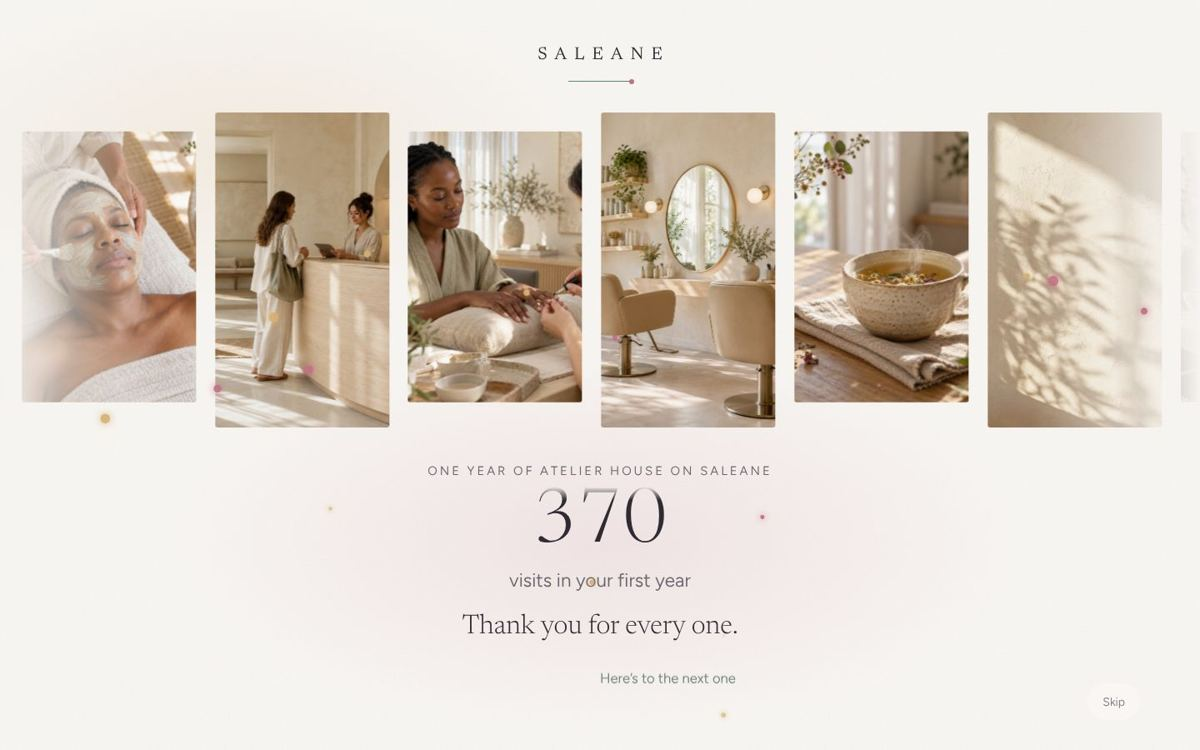
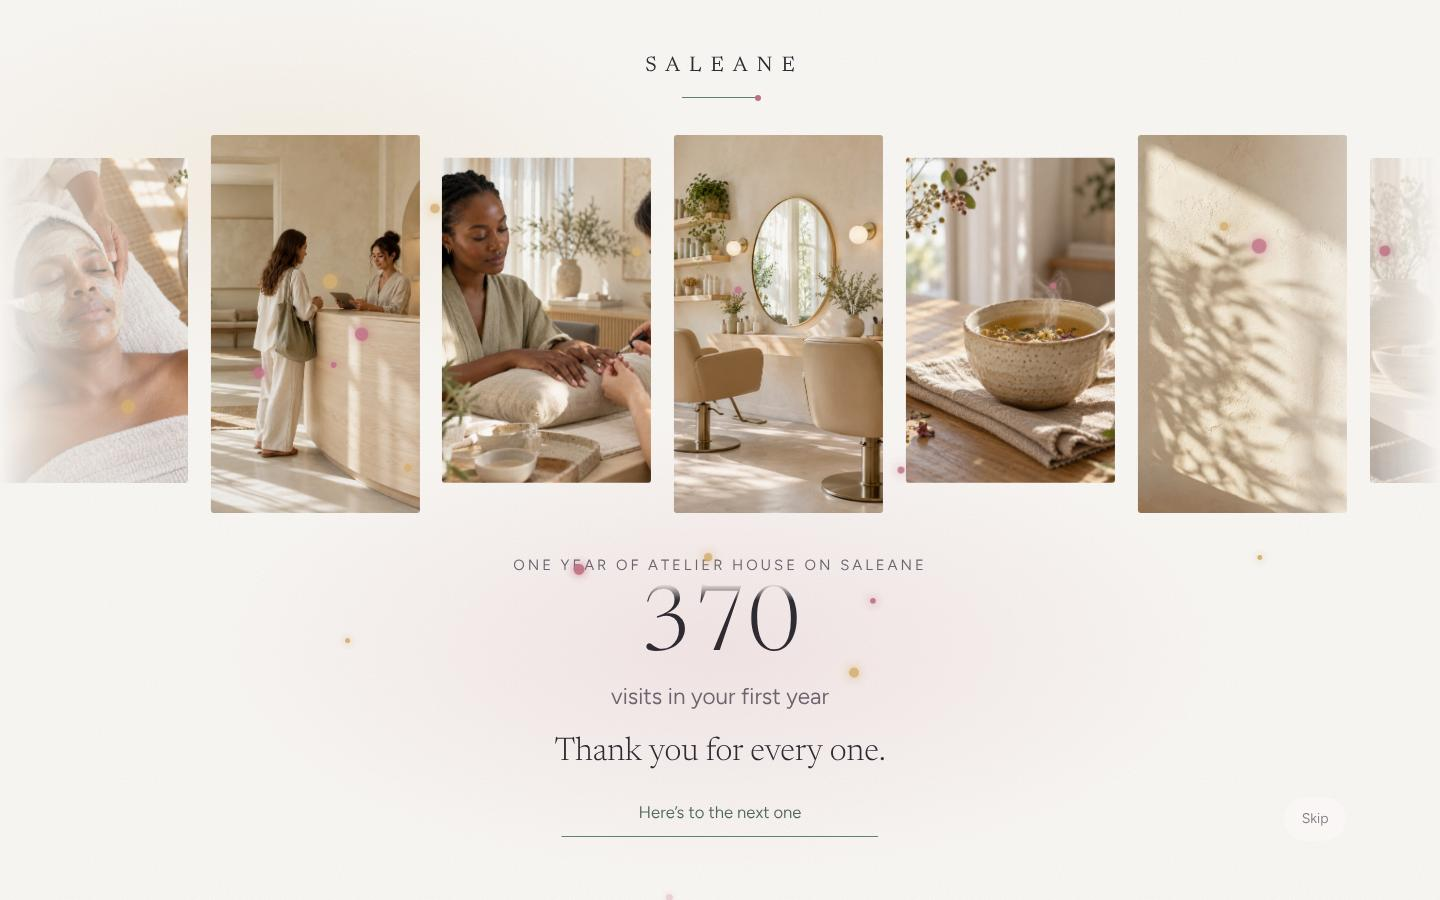
Tidy where things sit in the welcome films
Skip lines up with the name on a phone and the steps on a computer, the
birthday's steps are centred with their line, and the laptop fade keeps
the words clear of the photograph.

Claude-Session: https://claude.ai/code/session_01EMbt6CARbx6XApLCnPhMPr

diff --git a/src/components/welcome.css b/src/components/welcome.css
@@ -211,6 +211,7 @@
 }
 .film-eyebrow {
   margin: 0;
+  text-wrap: balance;
   font-size: max(0.66em, var(--text-eyebrow));
   letter-spacing: 0.2em;
   text-transform: uppercase;
@@ -270,12 +271,18 @@
   transform-origin: 0 50%;
 }
 
-/* Skip sits top right on a phone, clear of the words, and bottom right on a computer. */
+/*
+ * Skip sits top right on a phone, level with the name and in line with the words' margin, and
+ * bottom right on a computer, level with the steps.
+ */
 .film-skip {
   position: absolute;
   z-index: 10;
-  right: 4cqw;
-  top: max(3cqh, env(safe-area-inset-top));
+  right: 8cqw;
+  top: max(
+    calc(6.5cqh + 0.74 * min(4.1cqw, 2.2cqh) - var(--target, 44px) / 2),
+    env(safe-area-inset-top)
+  );
   min-height: var(--target, 44px);
   padding: 0 18px;
   border: 0;
@@ -669,6 +676,12 @@
 .welcome-film[data-scene='birthday'] .film-mark {
   top: 5.5cqh;
 }
+.welcome-film[data-scene='birthday'] .film-skip {
+  top: max(
+    calc(5.5cqh + 0.74 * min(4.1cqw, 2.2cqh) - var(--target, 44px) / 2),
+    env(safe-area-inset-top)
+  );
+}
 .film-ribbon {
   position: absolute;
   left: 0;
@@ -731,7 +744,6 @@
 .welcome-film[data-scene='birthday'] .film-progress {
   left: 50%;
   transform: translateX(-50%);
-  justify-items: center;
 }
 .welcome-film[data-scene='birthday'] .film-steps span {
   text-align: center;
@@ -834,9 +846,9 @@
     background: linear-gradient(
       to right,
       var(--welcome-ivory) 0%,
-      var(--welcome-ivory) 24%,
-      color-mix(in srgb, var(--welcome-ivory) 74%, transparent) 37%,
-      transparent 60%
+      var(--welcome-ivory) 28%,
+      color-mix(in srgb, var(--welcome-ivory) 82%, transparent) 40%,
+      transparent 62%
     );
   }
   .film-mark {
@@ -861,8 +873,8 @@
   }
   .film-skip {
     top: auto;
-    right: 5cqw;
-    bottom: 4cqh;
+    right: 6.5cqw;
+    bottom: calc(7cqh + (0.74 * min(2.5cqh, 1.6cqw) * 2.15 + 1px - var(--target, 44px)) / 2);
   }
   .film-big {
     font-size: 15cqw;
@@ -877,6 +889,9 @@
   }
   [data-scene='birthday'] .film-mark i {
     transform-origin: 50% 50%;
+  }
+  .welcome-film[data-scene='birthday'] .film-skip {
+    top: auto;
   }
   [data-scene='birthday'] .film-progress {
     left: 50%;

diff --git a/docs/evidence/WELCOME-FILMS.md b/docs/evidence/WELCOME-FILMS.md
@@ -12,6 +12,7 @@ Recorded 13 October 2026 in Chromium (Playwright) against the development server
 - **Turning it off.** "Open straight to the studio" in Your preferences stopped it playing on the next open. The five previews sit behind "Watch a welcome again" (`MoreOptions`) and still play from there at both sizes. Skipping by key is covered by the tests below.
 - **Reduced motion.** With reduced motion the finished frame faded up (the `data-still` film) and nothing moved.
 - **Both shapes.** Words at the foot on a phone with Skip at the top right; words at the left on a computer with Skip at the bottom right. The big SALEANE fits inside the screen at 320, 390, 768 and 1440 px, and a studio's name on the doors breaks only between words.
+- **Positions tidied (Edem, 13 October).** Checked at 1440 × 900, 1280 × 720, 1024 × 768, 768 × 1024, 390 × 844 and 360 × 640. Skip now sits level with the name on a phone and with the steps on a computer, in line with the words' margin; the birthday's steps and their line are centred under the thank you (the text had drifted right of centre and the line had vanished); the fade behind the words on a computer runs further, so a line such as "Next is Ava at 11:00, Lymphatic Massage." no longer crosses the photograph; a long birthday heading breaks evenly on a small phone.
 - **A clash found and fixed.** The team welcome already used a `welcome-mark` class, which drew a stray circle in the signed-in film. The film's classes now start `film-` under one `welcome-film` root.
 - **Console:** no page errors in either journey.
 
